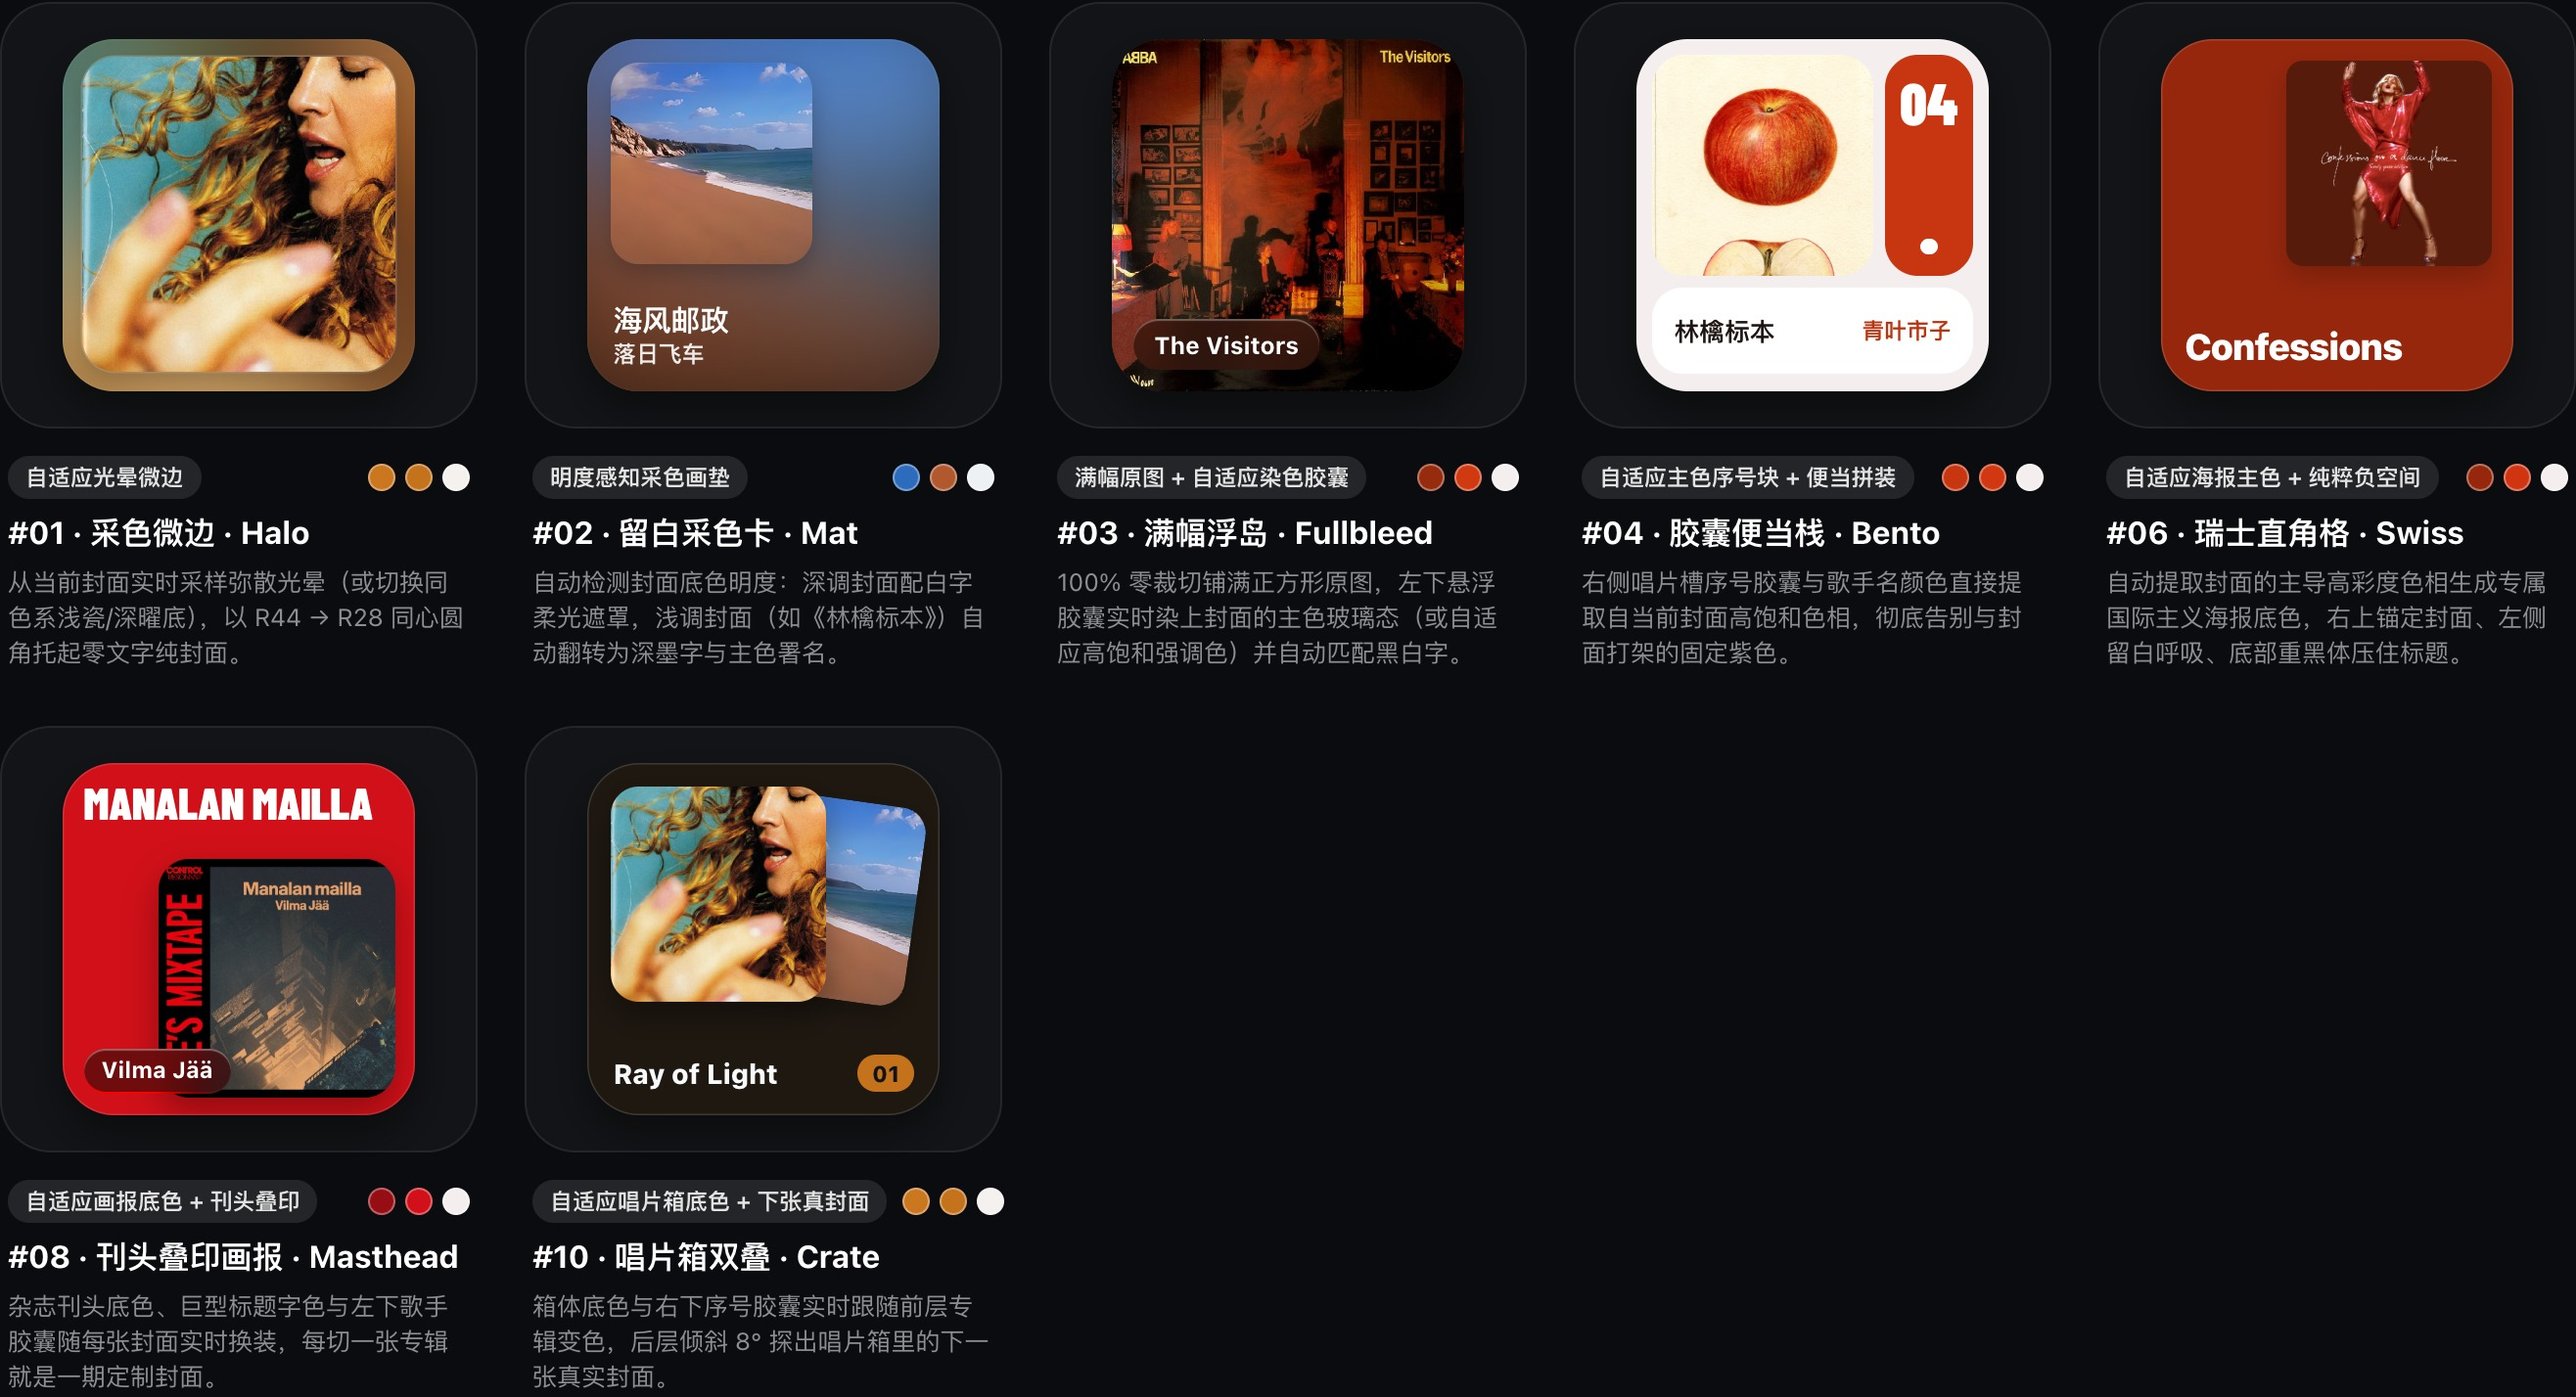
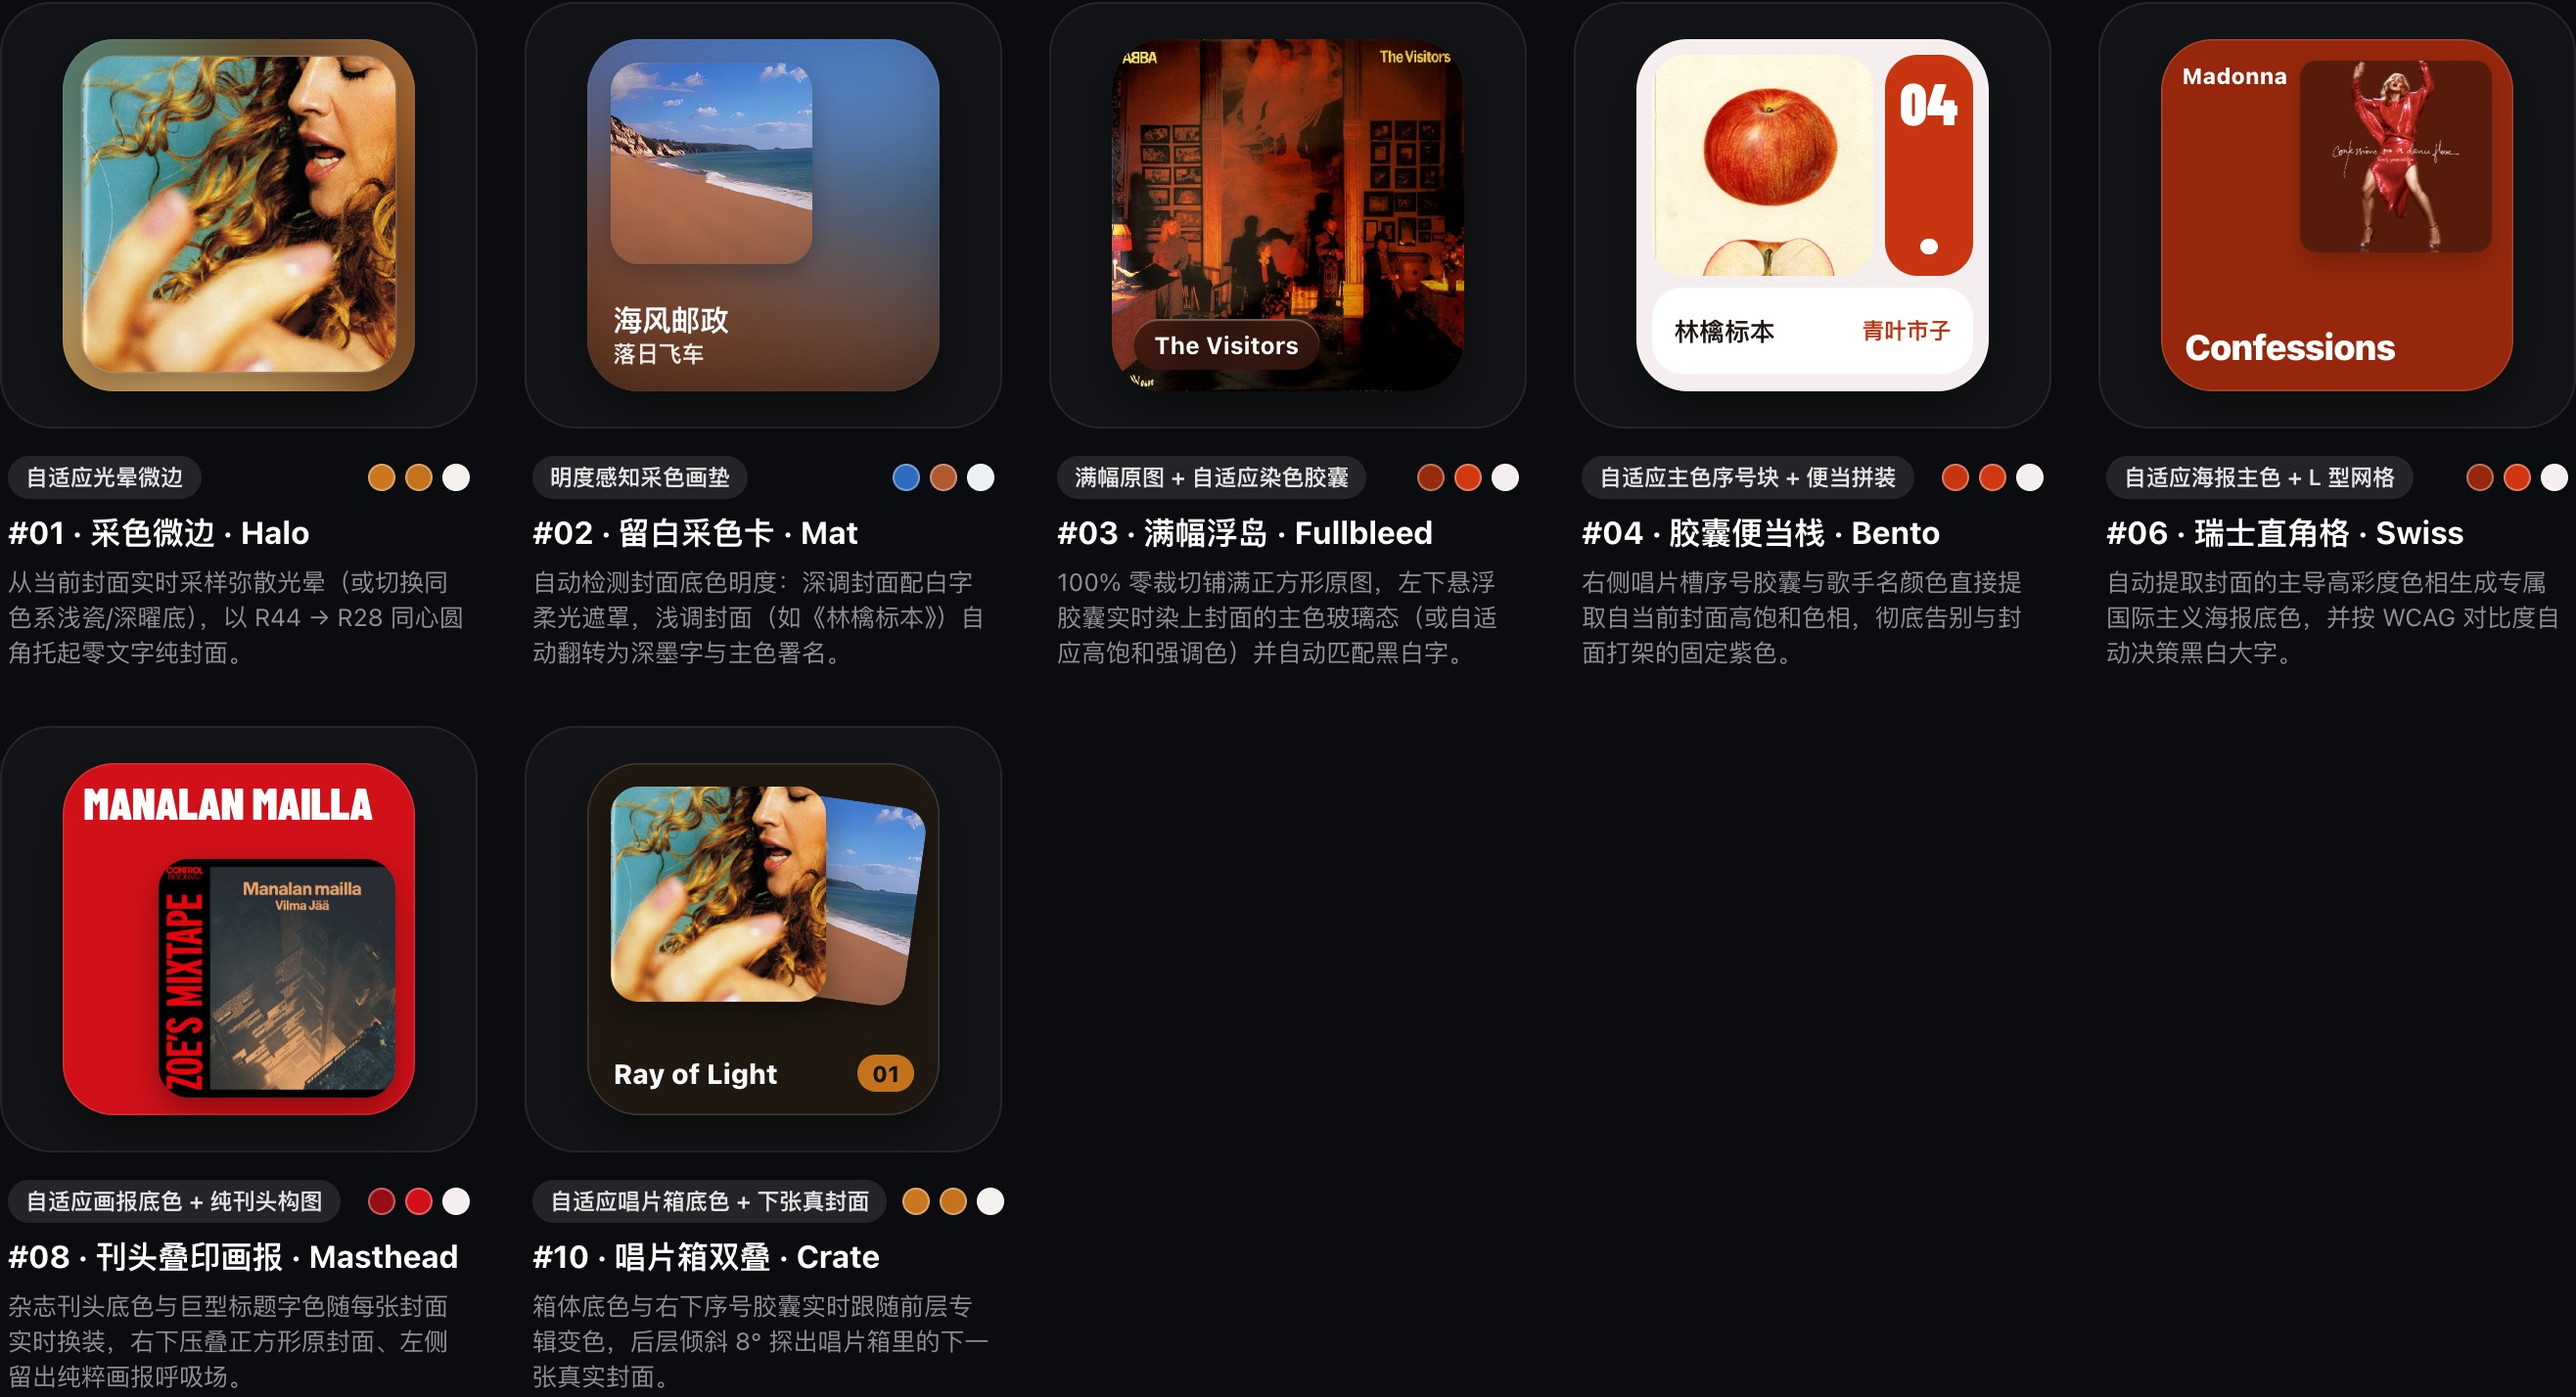
Restore artist in #06 Swiss and remove artist pill from #08 Masthead

diff --git a/wave2-albums/templates.js b/wave2-albums/templates.js
@@ -198,23 +198,26 @@
       id: 'album-swiss',
       originNo: '06',
       name: '瑞士直角格 · Swiss',
-      tag: '自适应海报主色 + 纯粹负空间',
-      desc: '自动提取封面的主导高彩度色相生成专属国际主义海报底色，右上锚定封面、左侧留白呼吸、底部重黑体压住标题。',
+      tag: '自适应海报主色 + L 型网格',
+      desc: '自动提取封面的主导高彩度色相生成专属国际主义海报底色，并按 WCAG 对比度自动决策黑白大字。',
       render(a, next, pal, toneMode, wide) {
         const bg = toneMode === 'light' ? pal.lightSurface : (toneMode === 'dark' ? pal.darkSurface : pal.posterBg);
         const ink = toneMode === 'light' ? pal.lightInk : (toneMode === 'dark' ? pal.darkInk : pal.posterInk);
+        const artistInk = toneMode === 'light' ? pal.lightTag : (toneMode === 'dark' ? pal.darkTag : ink);
 
         if (wide) {
           return `
             <div class="al-face" style="background:${bg};color:${ink}">
               <img class="al-img-sq" src="${a.cover}" alt="${esc(a.title)}"
-                style="position:absolute;right:calc(14 * var(--u));top:calc(14 * var(--u));width:calc(122 * var(--u));height:calc(122 * var(--u));border-radius:calc(12 * var(--u));box-shadow:0 calc(8 * var(--u)) calc(20 * var(--u)) rgba(0,0,0,0.22);z-index:2"/>
-              <div style="position:absolute;left:calc(20 * var(--u));bottom:calc(18 * var(--u));width:calc(140 * var(--u));font-size:calc(23 * var(--u));font-weight:900;line-height:1.12;letter-spacing:calc(-0.4 * var(--u));display:-webkit-box;-webkit-line-clamp:2;-webkit-box-orient:vertical;overflow:hidden">${esc(a.title)}</div>
+                style="position:absolute;right:calc(14 * var(--u));top:calc(16 * var(--u));width:calc(118 * var(--u));height:calc(118 * var(--u));border-radius:calc(12 * var(--u));box-shadow:0 calc(8 * var(--u)) calc(20 * var(--u)) rgba(0,0,0,0.22);z-index:2"/>
+              <div style="position:absolute;left:calc(18 * var(--u));top:calc(16 * var(--u));width:calc(142 * var(--u));font-size:calc(19 * var(--u));font-weight:800;color:${artistInk};white-space:nowrap;overflow:hidden;text-overflow:ellipsis">${esc(a.artist)}</div>
+              <div style="position:absolute;left:calc(18 * var(--u));bottom:calc(16 * var(--u));width:calc(142 * var(--u));font-size:calc(21.5 * var(--u));font-weight:900;line-height:1.12;display:-webkit-box;-webkit-line-clamp:2;-webkit-box-orient:vertical;overflow:hidden">${esc(a.title)}</div>
               <button type="button" class="al-hit" data-id="album-swiss" aria-label="切换专辑"></button>
             </div>`;
         }
         return `
           <div class="al-face" style="background:${bg};color:${ink}">
+            <div class="al-swiss-artist" style="color:${artistInk}">${esc(a.artist)}</div>
             <img class="al-img-sq al-swiss-cover" src="${a.cover}" alt="${esc(a.title)}"/>
             <div class="al-swiss-title">${esc(a.title)}</div>
             <button type="button" class="al-hit" data-id="album-swiss" aria-label="切换专辑"></button>
@@ -227,13 +230,11 @@
       id: 'album-masthead',
       originNo: '08',
       name: '刊头叠印画报 · Masthead',
-      tag: '自适应画报底色 + 刊头叠印',
-      desc: '杂志刊头底色、巨型标题字色与左下歌手胶囊随每张封面实时换装，每切一张专辑就是一期定制封面。',
+      tag: '自适应画报底色 + 纯刊头构图',
+      desc: '杂志刊头底色与巨型标题字色随每张封面实时换装，右下压叠正方形原封面、左侧留出纯粹画报呼吸场。',
       render(a, next, pal, toneMode, wide) {
         const bg = toneMode === 'light' ? pal.lightSurface : (toneMode === 'dark' ? pal.darkSurface : pal.accentBg);
         const headInk = toneMode === 'light' ? pal.lightTag : (toneMode === 'dark' ? pal.darkTag : pal.accentInk);
-        const pillBg = toneMode === 'light' ? pal.posterBg : pal.frostedDarkPill;
-        const pillInk = toneMode === 'light' ? pal.posterInk : '#FFFFFF';
         const cjk = hasCjk(a.title);
         const cjkCls = cjk ? 'is-cjk' : '';
         const sqHeadSize = cjk ? 52 : (a.title.length > 12 ? 38 : 50);
@@ -241,10 +242,9 @@
         if (wide) {
           return `
             <div class="al-face" style="background:${bg};color:${headInk}">
-              <div class="al-mast-head ${cjkCls}" style="right:calc(144 * var(--u));top:calc(16 * var(--u));font-size:${cjk ? 'calc(32 * var(--u))' : 'calc(36 * var(--u))'};line-height:0.94;white-space:normal;display:-webkit-box;-webkit-line-clamp:2;-webkit-box-orient:vertical">${esc(a.title)}</div>
+              <div class="al-mast-head ${cjkCls}" style="right:calc(144 * var(--u));top:calc(18 * var(--u));font-size:${cjk ? 'calc(34 * var(--u))' : 'calc(40 * var(--u))'};line-height:0.94;white-space:normal;display:-webkit-box;-webkit-line-clamp:3;-webkit-box-orient:vertical">${esc(a.title)}</div>
               <img class="al-img-sq" src="${a.cover}" alt="${esc(a.title)}"
                 style="position:absolute;right:calc(14 * var(--u));top:calc(14 * var(--u));width:calc(122 * var(--u));height:calc(122 * var(--u));border-radius:calc(20 * var(--u));box-shadow:0 calc(8 * var(--u)) calc(20 * var(--u)) rgba(0,0,0,0.28);z-index:3"/>
-              <div class="al-mast-pill" style="bottom:calc(16 * var(--u));background:${pillBg};color:${pillInk}">${esc(a.artist)}</div>
               <button type="button" class="al-hit" data-id="album-masthead" aria-label="切换专辑"></button>
             </div>`;
         }
@@ -252,7 +252,6 @@
           <div class="al-face" style="background:${bg};color:${headInk}">
             <div class="al-mast-head ${cjkCls}" style="font-size:calc(${sqHeadSize} * var(--u))">${esc(a.title)}</div>
             <img class="al-img-sq al-mast-cover" src="${a.cover}" alt="${esc(a.title)}"/>
-            <div class="al-mast-pill" style="background:${pillBg};color:${pillInk}">${esc(a.artist)}</div>
             <button type="button" class="al-hit" data-id="album-masthead" aria-label="切换专辑"></button>
           </div>`;
       }

diff --git a/wave2-albums/styles.css b/wave2-albums/styles.css
@@ -453,11 +453,28 @@ body.mode-wide .al-face {
   position: absolute;
   right: calc(18 * var(--u));
   top: calc(18 * var(--u));
-  width: calc(176 * var(--u));
-  height: calc(176 * var(--u));
+  width: calc(164 * var(--u));
+  height: calc(164 * var(--u));
   border-radius: calc(14 * var(--u));
   box-shadow: 0 calc(10 * var(--u)) calc(24 * var(--u)) rgba(0, 0, 0, 0.22);
   z-index: 2;
+}
+
+.al-swiss-artist {
+  position: absolute;
+  left: calc(18 * var(--u));
+  top: calc(20 * var(--u));
+  width: calc(96 * var(--u));
+  font-size: calc(19 * var(--u));
+  font-weight: 800;
+  line-height: 1.22;
+  display: -webkit-box;
+  -webkit-line-clamp: 3;
+  -webkit-box-orient: vertical;
+  overflow: hidden;
+  overflow-wrap: normal;
+  word-break: normal;
+  z-index: 3;
 }
 
 .al-swiss-title {
@@ -465,7 +482,7 @@ body.mode-wide .al-face {
   left: calc(20 * var(--u));
   right: calc(20 * var(--u));
   bottom: calc(20 * var(--u));
-  font-size: calc(31 * var(--u));
+  font-size: calc(30 * var(--u));
   font-weight: 900;
   line-height: 1.12;
   letter-spacing: calc(-0.6 * var(--u));
@@ -511,24 +528,6 @@ body.mode-wide .al-face {
   border-radius: calc(26 * var(--u));
   box-shadow: 0 calc(12 * var(--u)) calc(28 * var(--u)) rgba(0, 0, 0, 0.30);
   z-index: 3;
-}
-
-.al-mast-pill {
-  position: absolute;
-  left: calc(18 * var(--u));
-  bottom: calc(20 * var(--u));
-  max-width: calc(156 * var(--u));
-  padding: calc(8 * var(--u)) calc(15 * var(--u));
-  border-radius: 999px;
-  backdrop-filter: blur(calc(16 * var(--u))) saturate(180%);
-  -webkit-backdrop-filter: blur(calc(16 * var(--u))) saturate(180%);
-  box-shadow: inset 0 1px 0.5px rgba(255, 255, 255, 0.34);
-  font-size: calc(19.5 * var(--u));
-  font-weight: 700;
-  white-space: nowrap;
-  overflow: hidden;
-  text-overflow: ellipsis;
-  z-index: 4;
 }
 
 /* 7 · CRATE (原 #10) */

diff --git a/wave2-albums/README.md b/wave2-albums/README.md
@@ -12,8 +12,8 @@
 2. **`#02` 留白采色卡 · Mat**：左上正方形封面 + 明度自适应采色画垫，深浅封面自动翻转字色。
 3. **`#03` 满幅浮岛 · Fullbleed**：100% 满幅零裁切原封面 + 左下自适应染色玻璃标题胶囊。
 4. **`#04` 胶囊便当栈 · Bento**：正方形封面 + 封面主色驱动的唱片槽序号柱 + 底部高对比曲目胶囊。
-5. **`#06` 瑞士直角格 · Swiss**：自适应高彩度国际主义海报底色 + 右上微圆角封面与 L 型网格文字。
-6. **`#08` 刊头叠印画报 · Masthead**：自适应画报底色与巨幅刊头大字 + 右下封面压叠与歌手胶囊。
+5. **`#06` 瑞士直角格 · Swiss**：自适应高彩度国际主义海报底色 + 右上微圆角封面与 L 型网格（左上歌手、底部大字标题）。
+6. **`#08` 刊头叠印画报 · Masthead**：自适应画报底色与巨幅刊头大字 + 右下封面压叠（去掉歌手胶囊，保留纯粹刊头构图）。
 7. **`#10` 唱片箱双叠 · Crate**：自适应深/浅唱片箱底色 + 后层倾斜 `8°` 探出下一张真实专辑封面。
 
 ![智能主色自适应 · 多封面总览](previews/adaptive-auto-280.jpg)
